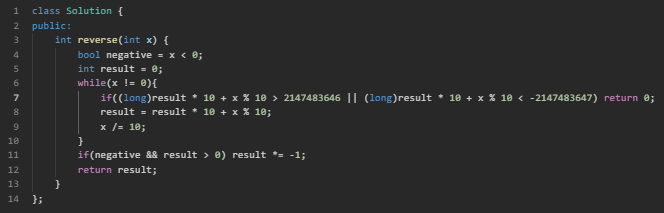
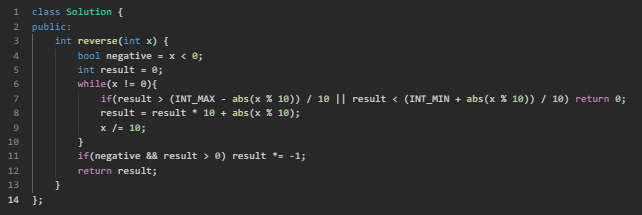
Corrected solution, removed usage of 64-bit integers

diff --git a/reverse-integer/Solution.h b/reverse-integer/Solution.h
@@ -8,8 +8,8 @@ public:
         bool negative = x < 0;
         int result = 0;
         while(x != 0){
-            if((long)result * 10 + x % 10 > 2147483646 || (long)result * 10 + x % 10 < -2147483647) return 0;
-            result = result * 10 + x % 10;
+            if(result > (INT_MAX - abs(x % 10)) / 10 || result < (INT_MIN + abs(x % 10)) / 10) return 0;
+            result = result * 10 + abs(x % 10);
             x /= 10;
         }
         if(negative && result > 0) result *= -1;

diff --git a/reverse-integer/main.cpp b/reverse-integer/main.cpp
@@ -2,5 +2,5 @@
 
 int main() {
     Solution sol;
-    cout << sol.reverse(1534236469);
+    cout << sol.reverse(-123);
 }
